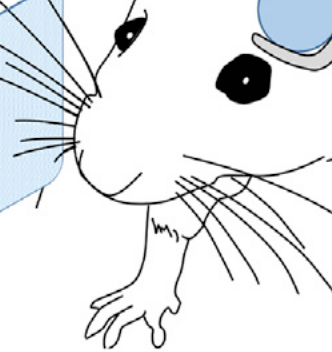
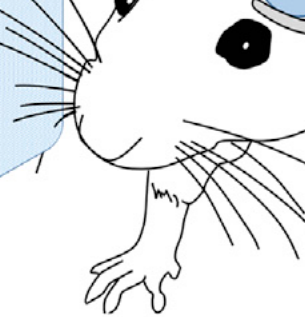
lecture 5: drop the instrument from the framing
"A microscope watches one neuron" and "it glows brighter when it fires"
describe a cranial window and a fluorescent indicator. Both are accurate and
neither is needed: the slides now say we measure neural activity while the
animal receives the signal, and dff is activity above the neuron's resting
level. Students can read every column from that.

Also removes the two-photon reference from neurotrace.py's docstring and the
DIY hint, so help(NeuronTrace) tells the same story as the slide, and crops
the cranial window out of the whisker figure.

The paper stays credited and linked for anyone who wants the method.

Changed region(s): [[0.0, 0.0, 1.0, 0.9937], [0.6492, 0.0, 1.0, 0.3123], [0.4426, 0.4259, 0.4721, 0.4543]]

diff --git a/data/lectures/lecture5/Slide09TIYNeuronTrace.tsx b/data/lectures/lecture5/Slide09TIYNeuronTrace.tsx
@@ -22,8 +22,8 @@ const tasks: Step[] = [
 
 const initialCode = `from neurotrace import NeuronTrace   # a class whose code you cannot see
 
-# One neuron from mouse somatosensory cortex, recorded while the
-# animal worked through a go / no-go task.
+# One neuron's activity, recorded while the animal worked
+# through the whisker task.
 trace = NeuronTrace.load("neuron_0588_20180828_5.csv")
 
 # help(NeuronTrace)   <- uncomment, run, READ. Then comment it out again.
@@ -47,7 +47,7 @@ Most active during: lick`
 const hints = [
   'Start with help(NeuronTrace). Every package documents its API this way — this is the looking-it-up you saw with random.',
   'Every call has the shape you already know: the object, a dot, the method, brackets. frames = trace.n_frames().',
-  'The class knows the microscope ran at 10.8 frames per second, so it can do the arithmetic for you: trace.minutes().',
+  'The class knows the recording ran at 10.8 readings per second, so it can do the arithmetic for you: trace.minutes().',
   'n_trials needs to know which event — pass the name as a string: trace.n_trials("go").',
   'most_active() works it out for you, so it needs no argument at all: trace.most_active().',
 ]

diff --git a/data/lectures/lecture5/Slide02cRecording.tsx b/data/lectures/lecture5/Slide02cRecording.tsx
@@ -13,9 +13,9 @@ export function Slide02cRecording() {
       }
       lead={
         <>
-          A microscope watches one cell in the whisker part of the cortex. It{' '}
-          <span className="text-bio-blue font-semibold">glows brighter when it fires</span>, 10.8
-          pictures a second, for half an hour.
+          One neuron&apos;s activity, measured{' '}
+          <span className="text-bio-blue font-semibold">about eleven times a second</span> for half
+          an hour, while the animal works through the task.
         </>
       }
       closing={
@@ -32,8 +32,8 @@ export function Slide02cRecording() {
       }
       note={
         <>
-          One row per frame: <span className="font-mono not-italic">dff</span>, plus a 0 or 1 for{' '}
-          <span className="font-mono not-italic">cue, go, nogo, reward, punish, lick</span>.
+          One row per reading: <span className="font-mono not-italic">dff</span> — activity above
+          the neuron&apos;s resting level — plus a 0 or 1 for each event.
         </>
       }
     >

diff --git a/data/lectures/lecture5/Slide02TheProblem.tsx b/data/lectures/lecture5/Slide02TheProblem.tsx
@@ -56,9 +56,10 @@ export function Slide02TheProblem() {
               The question
             </CardHeading>
             <CardBody className="text-base md:text-xl xl:text-2xl">
-              While it plays, a microscope watches one neuron. Is that cell firing for the{' '}
-              <strong>touch</strong>? For the <strong>decision</strong>? For the{' '}
-              <strong>water</strong>? Today you find out — from the numbers.
+              We measure <strong>neural activity</strong> while the animal receives the signal.
+              Is the neuron responding to the <strong>touch</strong>? To the{' '}
+              <strong>decision</strong>? To the <strong>water</strong>? Today you find out — from
+              the numbers.
             </CardBody>
           </SlideCard>
 

diff --git a/public/data/neurotrace.py b/public/data/neurotrace.py
@@ -12,7 +12,7 @@ of your career.
 
 import csv
 
-#: Frames per second of the two-photon microscope, from the paper's methods.
+#: Readings per second, from the paper's methods.
 FRAME_RATE = 10.8
 
 EVENTS = ["cue", "go", "nogo", "reward", "punish", "lick"]
@@ -25,9 +25,9 @@ class NeuronTrace:
 
         trace = NeuronTrace.load("neuron_0588_20180828_5.csv")
 
-    The recording is a fluorescence trace (dF/F) sampled at 10.8 frames per
-    second, plus a 0/1 marker per frame for each task event: cue, go, nogo,
-    reward, punish, lick.
+    The recording samples the neuron's activity 10.8 times a second, plus a
+    0/1 marker per reading for each task event: cue, go, nogo, reward,
+    punish, lick.
 
     Methods
     -------
